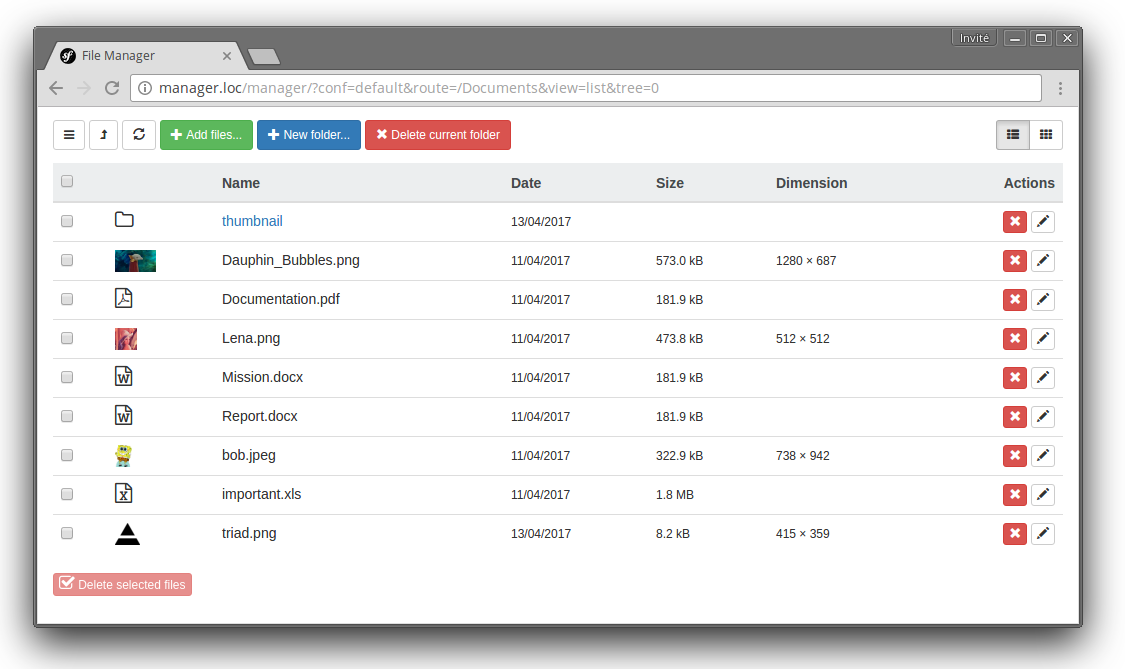
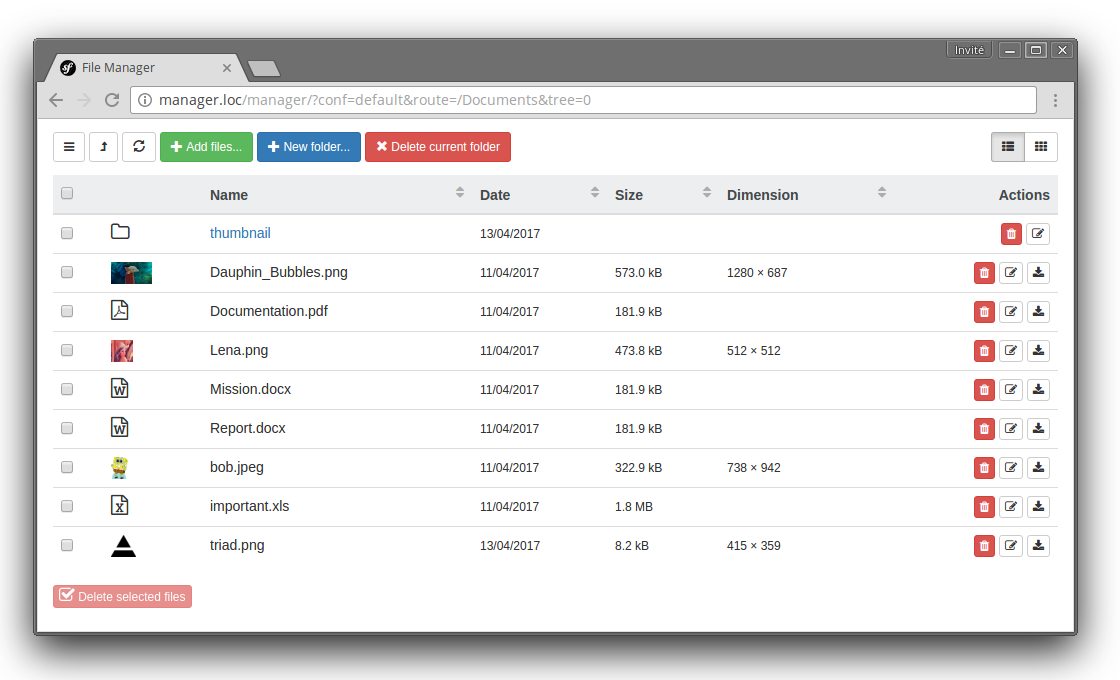
update png & readme

diff --git a/Resources/doc/book/1-basic-configuration.md b/Resources/doc/book/1-basic-configuration.md
@@ -58,7 +58,7 @@ artgris_file_manager:
 
 Example with `tree` = False
 
-<img src="https://raw.githubusercontent.com/artgris/FileManagerBundle/master/Resources/doc/images/filemanager-promo-no-tree.png" alt="Symfony Filemanager created with FileManagerBundle" align="center" />
+<img src="https://raw.githubusercontent.com/artgris/FileManagerBundle/master/Resources/doc/images/filemanager-promo-no-tree.png?v1.0.4" alt="Symfony Filemanager created with FileManagerBundle" align="center" />
 
 
 
@@ -71,7 +71,7 @@ Example with `tree` = False
 
 Example with `thumbnail`
 
-<img src="https://raw.githubusercontent.com/artgris/FileManagerBundle/master/Resources/doc/images/filemanager-promo-thumbnail.png" alt="Symfony Filemanager created with FileManagerBundle" align="center" />
+<img src="https://raw.githubusercontent.com/artgris/FileManagerBundle/master/Resources/doc/images/filemanager-promo-thumbnail.png?v1.0.4" alt="Symfony Filemanager created with FileManagerBundle" align="center" />
 
 
 

diff --git a/README.md b/README.md
@@ -3,7 +3,7 @@ FileManagerBundle
 
 FileManager is a simple Multilingual File Manager Bundle for Symfony
 
-<img src="https://raw.githubusercontent.com/artgris/FileManagerBundle/master/Resources/doc/images/filemanager-promo.png?" alt="Symfony Filemanager created with FileManagerBundle" align="center" />
+<img src="https://raw.githubusercontent.com/artgris/FileManagerBundle/master/Resources/doc/images/filemanager-promo.png?v1.0.4" alt="Symfony Filemanager created with FileManagerBundle" align="center" />
 
 * [Documentation](#documentation)
 * [Installation](#installation)
@@ -11,7 +11,7 @@ FileManager is a simple Multilingual File Manager Bundle for Symfony
 
 
 **Features**
-*  Upload, delete (multiple), modify, download files
+*  Upload, delete (multiple), rename, download and sort files
 *  Create and delete folders
 *  Manage **Public** and **Private** folders
 *  **Multilingual** (English, French)
